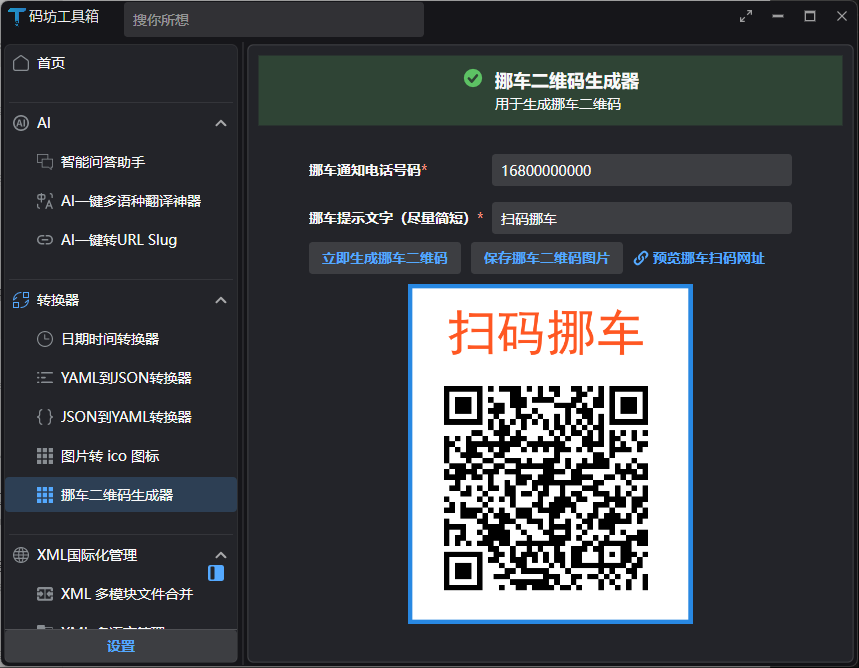
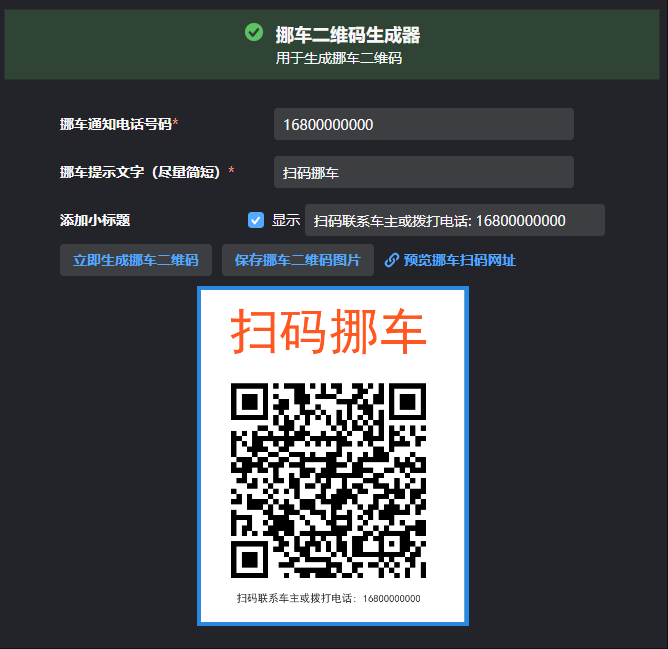
update add subtitle;

diff --git a/2025/03/nuoche-qrcode-generator-development.md b/2025/03/nuoche-qrcode-generator-development.md
@@ -3,7 +3,7 @@ title: 挪车二维码生成工具开发实战
 slug: nuoche-qrcode-generator-development
 description: 本文介绍了如何使用C#和Avalonia开发一个挪车二维码生成工具，包括需求分析、核心代码实现、UI设计和MVVM模式的应用。
 date: 2025-03-09 09:14:24
-lastmod: 2025-03-15 11:24:36
+lastmod: 2025-03-10 06:24:36
 copyright: Original
 draft: False
 cover: https://img1.dotnet9.com/2025/03/cover_04.png
@@ -44,6 +44,15 @@ tags:
 
 ![挪车二维码](https://img1.dotnet9.com/2025/03/cover_04.png)
 
+![扫码显示界面](https://img1.dotnet9.com/2025/03/0403.png)
+
+ <table>
+    <tr>
+        <td><img src="https://img1.dotnet9.com/2025/03/0405.png"/></td>
+        <td><img src="https://img1.dotnet9.com/2025/03/0406.png"/></td>
+    </tr>
+ </table>
+
 ## 二、核心二维码生成代码
 
 首先，让我们看一下核心的二维码生成逻辑。这部分代码封装在[CodeWF.Tools](https://github.com/dotnet9/CodeWF.Tools)项目的`QrCodeGenerator`类中：
@@ -58,7 +67,7 @@ namespace CodeWF.Tools.Image;
 
 public static class QrCodeGenerator
 {
-    public static void GenerateQrCode(string title, string content, string imagePath)
+    public static void GenerateQrCode(string title, string content, string imagePath, string? subTitle = "")
     {
         var qrCodeWriter = new BarcodeWriterPixelData
         {
@@ -80,20 +89,32 @@ public static class QrCodeGenerator
         var settings = new PixelReadSettings((uint)pixelData.Width, (uint)pixelData.Height, StorageType.Char, PixelMapping.RGBA);
         qrCodeImage.ReadPixels(pixelData.Pixels, settings);
 
-        using var background = new MagickImage(MagickColors.White, 500, 600);
+        var backgroundHeight = string.IsNullOrWhiteSpace(subTitle) ? 600u : 630u;
+        using var background = new MagickImage(MagickColors.White, 500, backgroundHeight);
 
         background.BorderColor = new MagickColor("#2888E2");
         background.Border(8);
 
         var titleText = new Drawables()
             .Font("SimHei")
-            .FontPointSize(90)
+            .FontPointSize(95)
             .FillColor(new MagickColor("#FF5722"))
             .TextAlignment(TextAlignment.Center)
             .Text(250, 120, title);
         background.Draw(titleText);
 
         background.Composite(qrCodeImage, 50, 170, CompositeOperator.Over);
+
+        if (!string.IsNullOrWhiteSpace(subTitle))
+        {
+            var subTitleText = new Drawables()
+                .Font("SimHei")
+                .FontPointSize(20)
+                .FillColor(new MagickColor("#333333"))
+                .TextAlignment(TextAlignment.Center)
+                .Text(250, 600, subTitle);
+            background.Draw(subTitleText);
+        }
 
         //using var logo = new MagickImage("logo.png");
         //logo.Resize(100, 100);
@@ -105,15 +126,18 @@ public static class QrCodeGenerator
 }
 ```
 
-上面代码使用了两个开源库：ZXing.NET和Magick.NET。ZXing.NET用于生成二维码矩阵数据，而Magick.NET则用于图像处理和合成，实现了以下功能：
+上面代码使用了NuGet包：ZXing.Net.Bindings.Magick。ZXing.NET用于生成二维码矩阵数据，而Magick.NET则用于图像处理和合成，实现了以下功能：
 
 1. 创建高质量的QR码，设置了较高的纠错级别(H级别)，即使二维码部分被遮挡也能正常识别
 2. 生成一个白底蓝边的背景图片
 3. 在顶部添加自定义的标题文本
 4. 将二维码图像合成到背景上
-5. 保存为高质量PNG图像
+5. 在顶部可添加自定义的小标题文本
+6. 保存为高质量PNG图像
 
 这种设计让最终生成的挪车二维码既美观又实用。
+
+![挪车二维码](https://img1.dotnet9.com/2025/03/cover_04.png)
 
 ## 三、离线桌面版实现
 
@@ -144,6 +168,10 @@ public static class QrCodeGenerator
                      u:FormItem.IsRequired="True" Text="{Binding PhoneNumber}" />
             <TextBox Width="300" u:FormItem.Label="{i18n:I18n {x:Static language:NuoCheView.InputTitle}}"
                      u:FormItem.IsRequired="True" Text="{Binding InputTitle}" />
+            <StackPanel Orientation="Horizontal" u:FormItem.Label="{i18n:I18n {x:Static language:NuoCheView.EnableSubTitle}}">
+                <CheckBox IsChecked="{Binding EnableSubTitle}" Command="{Binding EnableSubTitleHandler}" VerticalAlignment="Center" Content="显示" Margin="5 0" />
+                <TextBox Width="300" Text="{Binding SubTitle}" IsEnabled="{Binding EnableSubTitle}" VerticalAlignment="Center" />
+            </StackPanel>
         </u:Form>
 
         <StackPanel Orientation="Horizontal" Spacing="10" Margin="0,0,0,10">
@@ -169,7 +197,7 @@ public static class QrCodeGenerator
 
 界面布局简洁明了，主要包括：
 
-1. 两个输入框：手机号码和二维码标题
+1. 三个输入框：手机号码和二维码标题、可选二维码小标题
 2. 三个操作按钮：生成二维码、保存二维码和预览挪车页面
 3. 一个图像显示区域：展示生成的二维码，并支持拖拽操作
 
@@ -203,6 +231,8 @@ public class NuoCheViewModel : ReactiveObject
     private Bitmap? _qrCodeImage;
     private string _qrCodeImagePath;
     private string _generatedUrl;
+    private string _subTitle;
+    private bool _enableSubTitle;
 
     public NuoCheViewModel(INotificationService notificationService, IFileChooserService fileChooserService)
     {
@@ -211,6 +241,8 @@ public class NuoCheViewModel : ReactiveObject
 
         InputTitle = I18nManager.Instance.GetResource(Localization.NuoCheView.DefaultInputTitle);
         PhoneNumber = 16899999999;
+        SubTitle = $"{I18nManager.Instance.GetResource(Localization.NuoCheView.DefaultSubTitlePrefix)}: {PhoneNumber}";
+        EnableSubTitle = false;
     }
 
     public string InputTitle
@@ -243,6 +275,23 @@ public class NuoCheViewModel : ReactiveObject
         private set => this.RaiseAndSetIfChanged(ref _generatedUrl, value);
     }
 
+    public string SubTitle
+    {
+        get => _subTitle;
+        set => this.RaiseAndSetIfChanged(ref _subTitle, value);
+    }
+
+    public bool EnableSubTitle
+    {
+        get => _enableSubTitle;
+        set => this.RaiseAndSetIfChanged(ref _enableSubTitle, value);
+    }
+
+    public void EnableSubTitleHandler()
+    {
+        SubTitle = $"{I18nManager.Instance.GetResource(Localization.NuoCheView.DefaultSubTitlePrefix)}: {PhoneNumber}";
+    }
+
     public void GenerateQrCode()
     {
         if (string.IsNullOrWhiteSpace(InputTitle))
@@ -260,7 +309,8 @@ public class NuoCheViewModel : ReactiveObject
                 $"https://codewf.com/nuoche?p={encodedPhone}";
             QrCodeImagePath = Path.Combine(Path.GetTempPath(), "nuoche.png");
 
-            QrCodeGenerator.GenerateQrCode(InputTitle, GeneratedUrl, QrCodeImagePath);
+            QrCodeGenerator.GenerateQrCode(InputTitle, GeneratedUrl, QrCodeImagePath, 
+                EnableSubTitle ? SubTitle : null);
 
             QrCodeImage = new Bitmap(QrCodeImagePath);
         }
@@ -339,6 +389,10 @@ public class NuoCheViewModel : ReactiveObject
 
 值得一提的是，我们使用了`Hashids`库对手机号进行加密，提高了隐私保护。这样，即使二维码被公开展示，他人也无法直接获取车主的真实手机号。
 
+拖拽保存挪车二维码效果：
+
+![拖拽保存挪车二维码](https://img1.dotnet9.com/2025/03/0407.gif)
+
 ## 四、在线网页版实现
 
 除了桌面应用版本外，我们还开发了一个基于Blazor的在线挪车二维码生成工具，方便用户无需安装软件即可使用。
@@ -399,6 +453,13 @@ public class NuoCheViewModel : ReactiveObject
                 <label for="title">标题</label>
                 <input type="text" id="title" placeholder="扫码挪车" value="扫码挪车" />
             </div>
+            <div class="input-group">
+                <div class="checkbox-container">
+                    <input type="checkbox" id="enableSubtitle" />
+                    <label for="enableSubtitle">添加小标题</label>
+                </div>
+                <input type="text" id="subtitle" placeholder="扫码联系车主或拨打电话: 16800000000" disabled />
+            </div>
             <div class="button-group">
                 <button class="primary-button" onclick="generateQrCode()">
                     <i class="fas fa-qrcode"></i> 生成二维码
@@ -446,12 +507,26 @@ public class NuoCheViewModel : ReactiveObject
 
 通过这种设计，我们实现了二维码的完整生命周期：生成、扫描、联系，为用户提供了便捷的挪车解决方案。
 
+扫码后显示截图：
+
+![扫码后显示截图](https://img1.dotnet9.com/2025/03/0403.png)
+
 ### 3. 在线版本核心JavaScript交互
 
 ```javascript
 async function generateQrCode() {
     const title = document.getElementById('title').value;
     const phoneNumber = document.getElementById('phoneNumber').value;
+    const enableSubtitle = document.getElementById('enableSubtitle').checked;
+    let subtitle = null;
+    
+    if (enableSubtitle) {
+        subtitle = document.getElementById('subtitle').value.trim();
+        if (!subtitle) {
+            subtitle = `扫码联系车主或拨打电话: ${phoneNumber || "16800000000"}`;
+            document.getElementById('subtitle').value = subtitle;
+        }
+    }
 
     if (!title || !phoneNumber) {
         alert('请输入标题和手机号码');
@@ -466,7 +541,8 @@ async function generateQrCode() {
             },
             body: JSON.stringify({
                 title: title,
-                phoneNumber: phoneNumber
+                phoneNumber: phoneNumber,
+                subtitle: subtitle
             })
         });
 
@@ -477,7 +553,7 @@ async function generateQrCode() {
             img.src = data.qrCodeUrl;
             qrCodeContainer.querySelector('.preview-link').href = data.generatedUrl;
 
-            // 设置下载功能
+            // 添加下载功能
             const downloadLink = qrCodeContainer.querySelector('.download-link');
             downloadLink.onclick = () => {
                 const a = document.createElement('a');
@@ -497,9 +573,81 @@ async function generateQrCode() {
         alert('生成二维码失败，请稍后重试');
     }
 }
+
+// 添加小标题复选框的事件处理
+document.addEventListener('DOMContentLoaded', function() {
+    const enableSubtitleCheckbox = document.getElementById('enableSubtitle');
+    const subtitleInput = document.getElementById('subtitle');
+    const phoneInput = document.getElementById('phoneNumber');
+    
+    if (enableSubtitleCheckbox && subtitleInput) {
+        enableSubtitleCheckbox.addEventListener('change', function() {
+            subtitleInput.disabled = !this.checked;
+            if (this.checked) {
+                if (!subtitleInput.value.trim()) {
+                    const phoneNumber = phoneInput.value.trim() || "16800000000";
+                    subtitleInput.value = `扫码联系车主或拨打电话: ${phoneNumber}`;
+                }
+                subtitleInput.focus();
+            }
+        });
+        
+        // 当手机号码变化时，如果小标题已启用且使用的是默认格式，则更新小标题中的电话号码
+        phoneInput.addEventListener('input', function() {
+            if (enableSubtitleCheckbox.checked && subtitleInput.value.startsWith('扫码联系车主或拨打电话:')) {
+                const phoneNumber = this.value.trim() || "16800000000";
+                subtitleInput.value = `扫码联系车主或拨打电话: ${phoneNumber}`;
+            }
+        });
+    }
+});
 ```
 
-在线版本的后端API实现与离线版类似，都是使用相同的核心二维码生成逻辑，但增加了文件上传处理、临时存储和清理等功能，这里不再细述，[在线版源码](https://github.com/dotnet9/CodeWF)戳这。
+在线版本的后端API实现与离线版类似，都是使用相同的核心二维码生成逻辑，但增加了文件上传处理、临时存储和清理等功能，这里不再细述，[在线版源码](https://github.com/dotnet9/CodeWF)戳这，挪车二维码接口定义如下：
+
+```csharp
+[HttpPost("nuoche")]
+[AllowAnonymous]
+public async Task<IActionResult> NuoCheAsync([FromBody] NuoCheRequest request,
+    [FromServices] IWebHostEnvironment env,
+    [FromServices] IOptions<SiteOption> siteOption)
+{
+    try
+    {
+        if (string.IsNullOrWhiteSpace(request.Title) || string.IsNullOrWhiteSpace(request.PhoneNumber))
+        {
+            return BadRequest(new { success = false, message = "标题和手机号码不能为空" });
+        }
+
+        if (!long.TryParse(request.PhoneNumber, out long phoneNumberLong))
+        {
+            return BadRequest(new { success = false, message = "无效的手机号码" });
+        }
+
+        var encodedPhone = new Hashids("codewf").EncodeLong(phoneNumberLong);
+        var generatedUrl = $"{siteOption.Value.Domain}/nuoche?p={encodedPhone}";
+
+        var fileName = $"qrcode_{Guid.NewGuid():N}.png";
+        var qrCodePath = Path.Combine(env.WebRootPath, IconFolder, fileName);
+
+        Directory.CreateDirectory(Path.Combine(env.WebRootPath, IconFolder));
+
+        QrCodeGenerator.GenerateQrCode(request.Title, generatedUrl, qrCodePath, request.SubTitle);
+
+        var qrCodeUrl = $"/{IconFolder}/{fileName}";
+        return Ok(new
+        {
+            success = true,
+            qrCodeUrl,
+            generatedUrl
+        });
+    }
+    catch (Exception ex)
+    {
+        return BadRequest(new { success = false, message = ex.Message });
+    }
+}
+```
 
 ## 五、功能对比与应用场景
 
